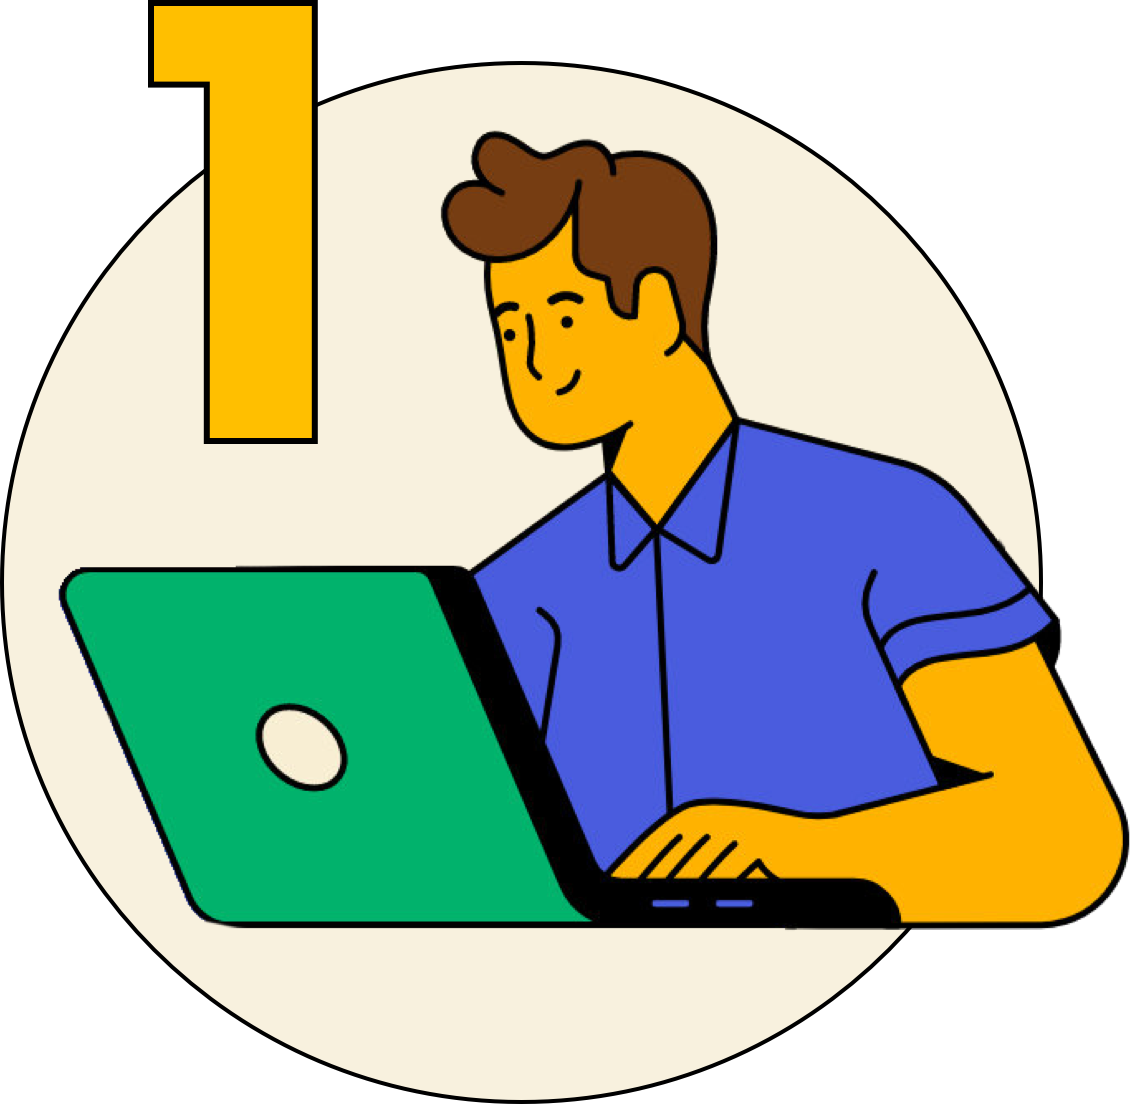
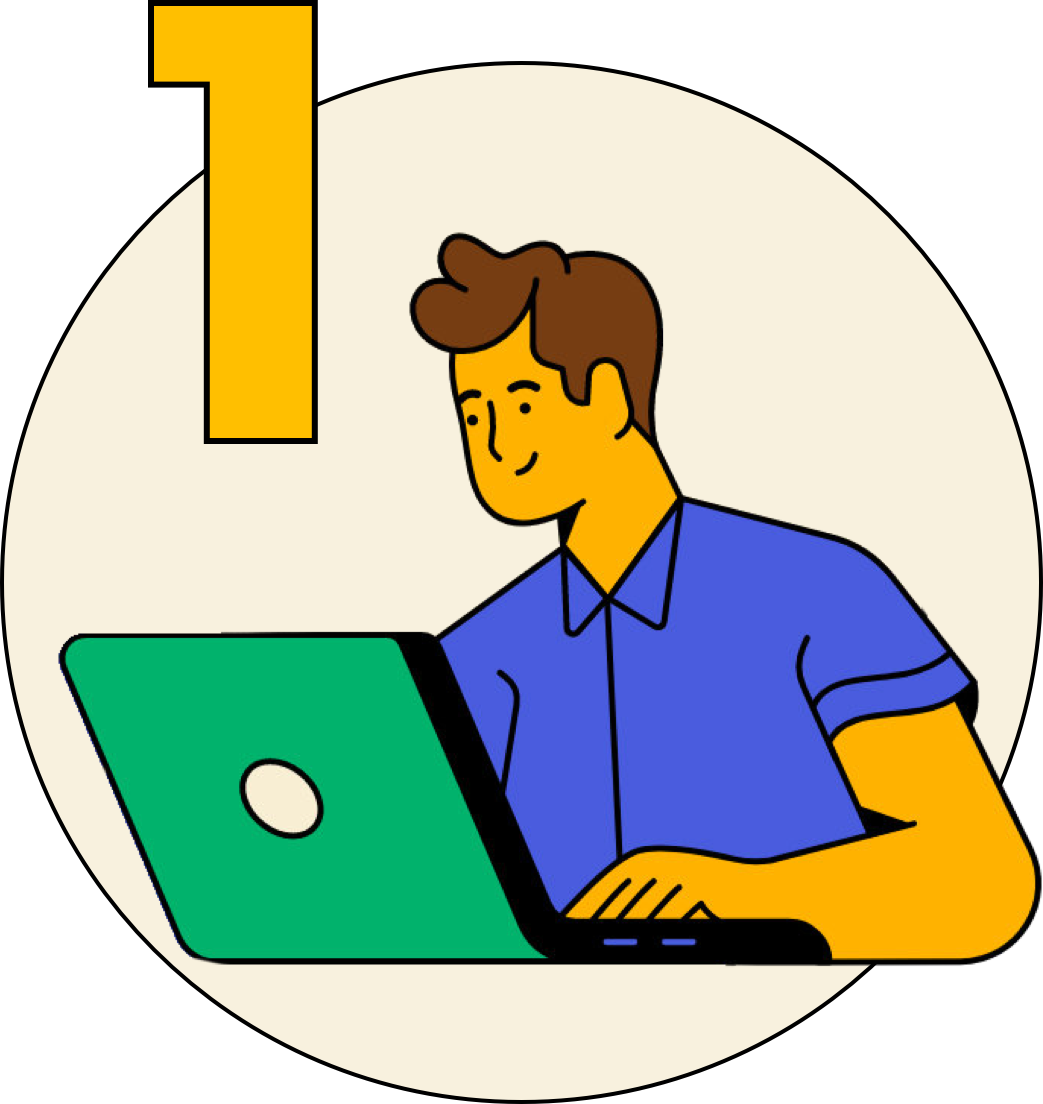
adjusted images and css in lers explained

diff --git a/lers-explained.md b/lers-explained.md
@@ -39,7 +39,7 @@ title: LER Ecosystem Map - LERs Explained
     </div>
     <div class="row mx-4 py-3">
          <div class="col-sm-2 text-center">
-            <img class="w-75" src="./images/LERs-explained-step01-sm.png" loading="lazy" alt="Step 1 icon"/>
+            <img class="w-50" src="./images/LERs-explained-step01-sm.png" loading="lazy" alt="Step 1 icon"/>
         </div>
         <div class="col-sm-10">
             <h4>Learner makes an achievement</h4>
@@ -48,7 +48,7 @@ title: LER Ecosystem Map - LERs Explained
     </div>
     <div class="row mx-4 py-3">
         <div class="col-sm-2 text-center">
-            <img class="w-75" src="./images/LERs-explained-step02-sm.png" loading="lazy" alt="Step 2 icon"/>
+            <img class="w-50" src="./images/LERs-explained-step02-sm.png" loading="lazy" alt="Step 2 icon"/>
         </div>
         <div class="col-sm-10">
             <h3>Issuer issues credential</h3>
@@ -57,7 +57,7 @@ title: LER Ecosystem Map - LERs Explained
     </div>
     <div class="row mx-4 py-3">
         <div class="col-sm-2 text-center">
-            <img class="w-75" src="./images/LERs-explained-step03-sm.png" loading="lazy" alt="Step 3 icon"/>
+            <img class="w-50" src="./images/LERs-explained-step03-sm.png" loading="lazy" alt="Step 3 icon"/>
         </div>
         <div class="col-sm-10">
             <h3>Learner obtains credential</h3>
@@ -66,7 +66,7 @@ title: LER Ecosystem Map - LERs Explained
     </div>
     <div class="row mx-4 py-3">
         <div class="col-sm-2 text-center">
-            <img class="w-75" src="./images/LERs-explained-step04-sm.png" loading="lazy" alt="Step 4 icon"/>
+            <img class="w-50" src="./images/LERs-explained-step04-sm.png" loading="lazy" alt="Step 4 icon"/>
         </div>
         <div class="col-sm-10">
             <h3>Learner shares a credential</h3>
@@ -75,7 +75,7 @@ title: LER Ecosystem Map - LERs Explained
     </div>
     <div class="row mx-4 py-3">
         <div class="col-sm-2 text-center">
-            <img class="w-75" src="./images/LERs-explained-step05-sm.png" loading="lazy" alt="Step 5 icon"/>
+            <img class="w-50" src="./images/LERs-explained-step05-sm.png" loading="lazy" alt="Step 5 icon"/>
         </div>
         <div class="col-sm-10">
             <h3>Consumer verifies a credential</h3>
@@ -84,7 +84,7 @@ title: LER Ecosystem Map - LERs Explained
     </div>
     <div class="row mx-4 py-3">
         <div class="col-sm-2 text-center">
-            <img class="w-75" src="./images/LERs-explained-step06-sm.png" loading="lazy" alt="Step 6 icon"/>
+            <img class="w-50" src="./images/LERs-explained-step06-sm.png" loading="lazy" alt="Step 6 icon"/>
          </div>
          <div class="col-sm-10">
             <h3> The learner continues to add to their LER throughout their lifetime</h3>
